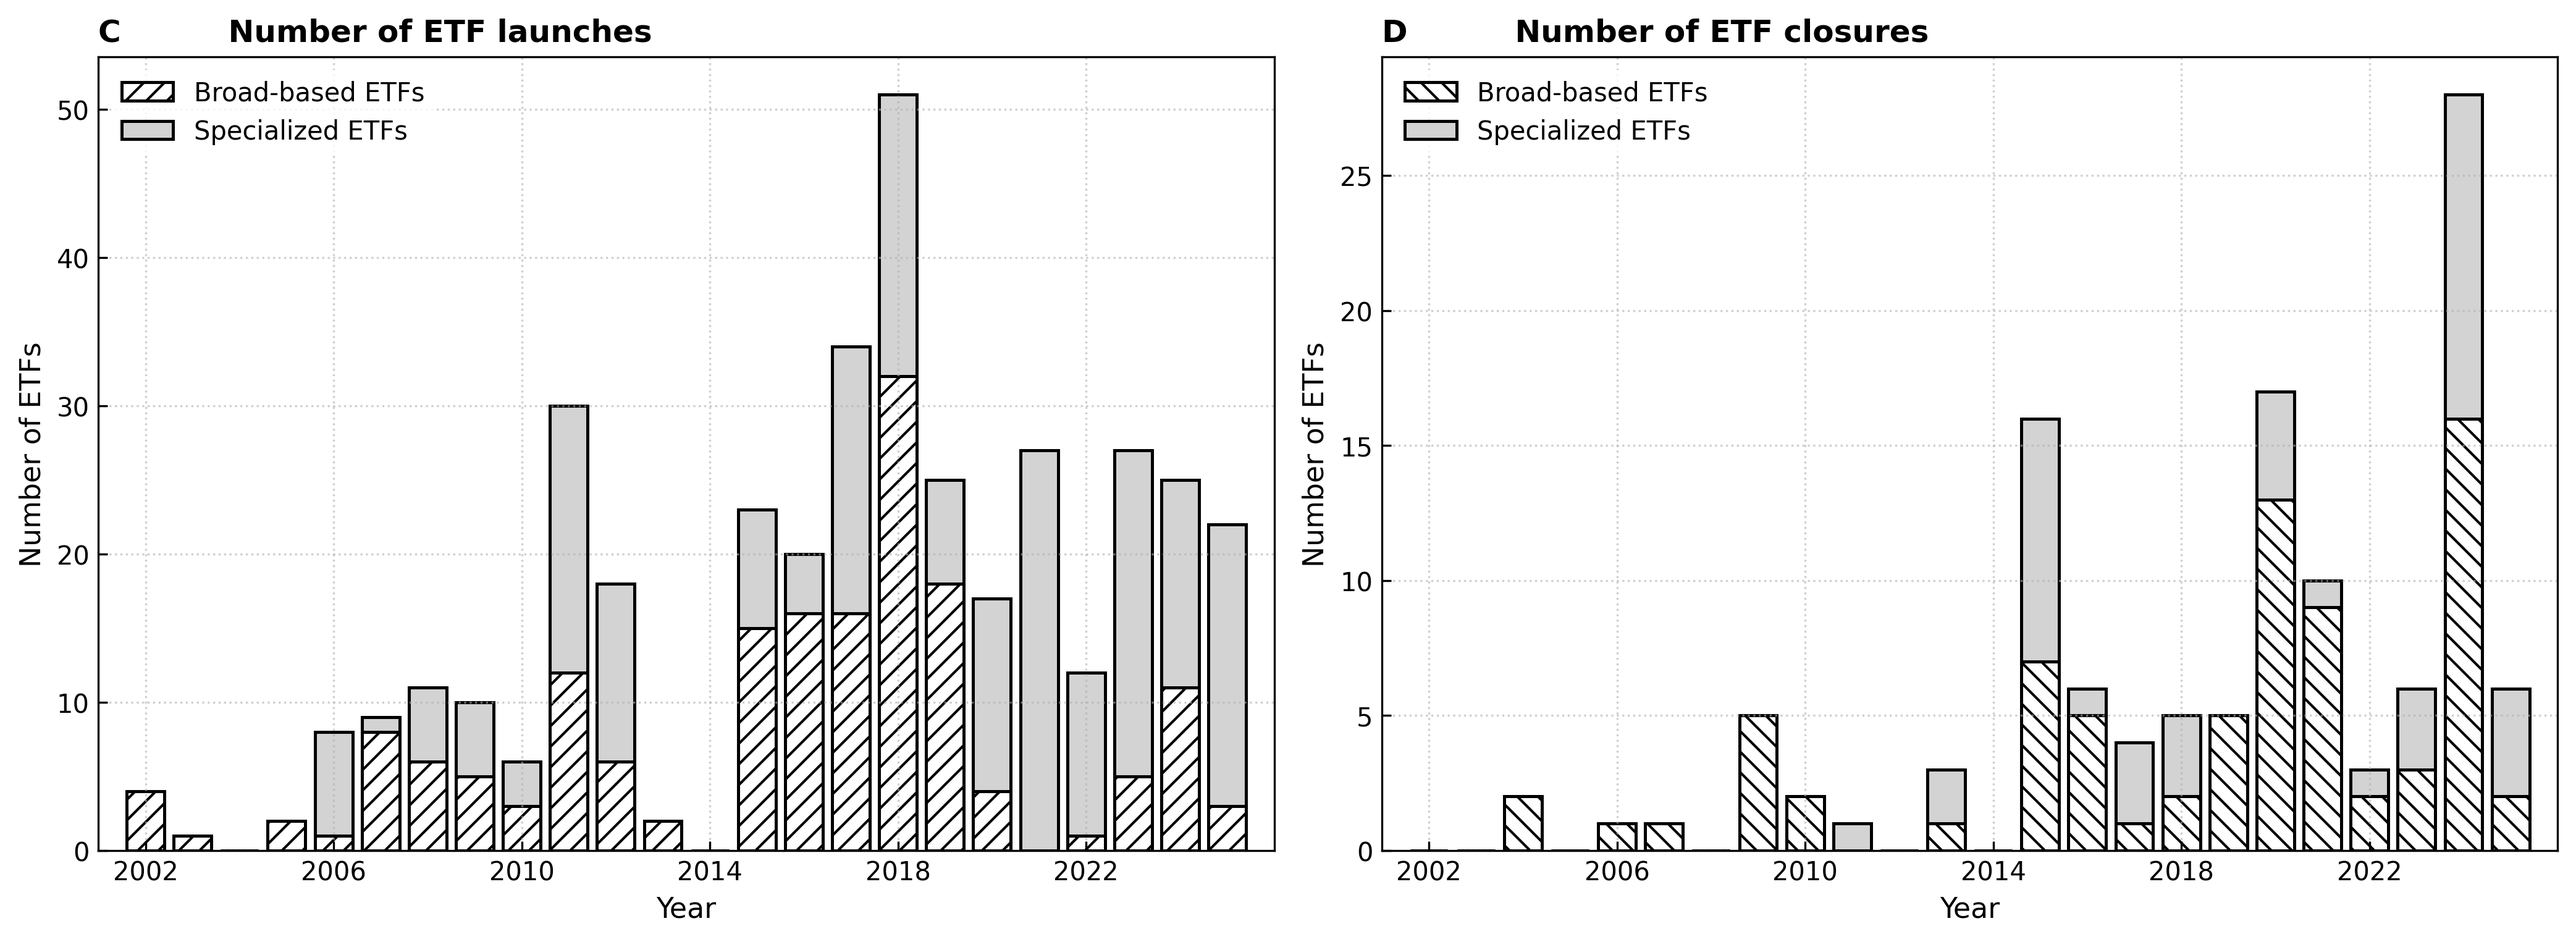
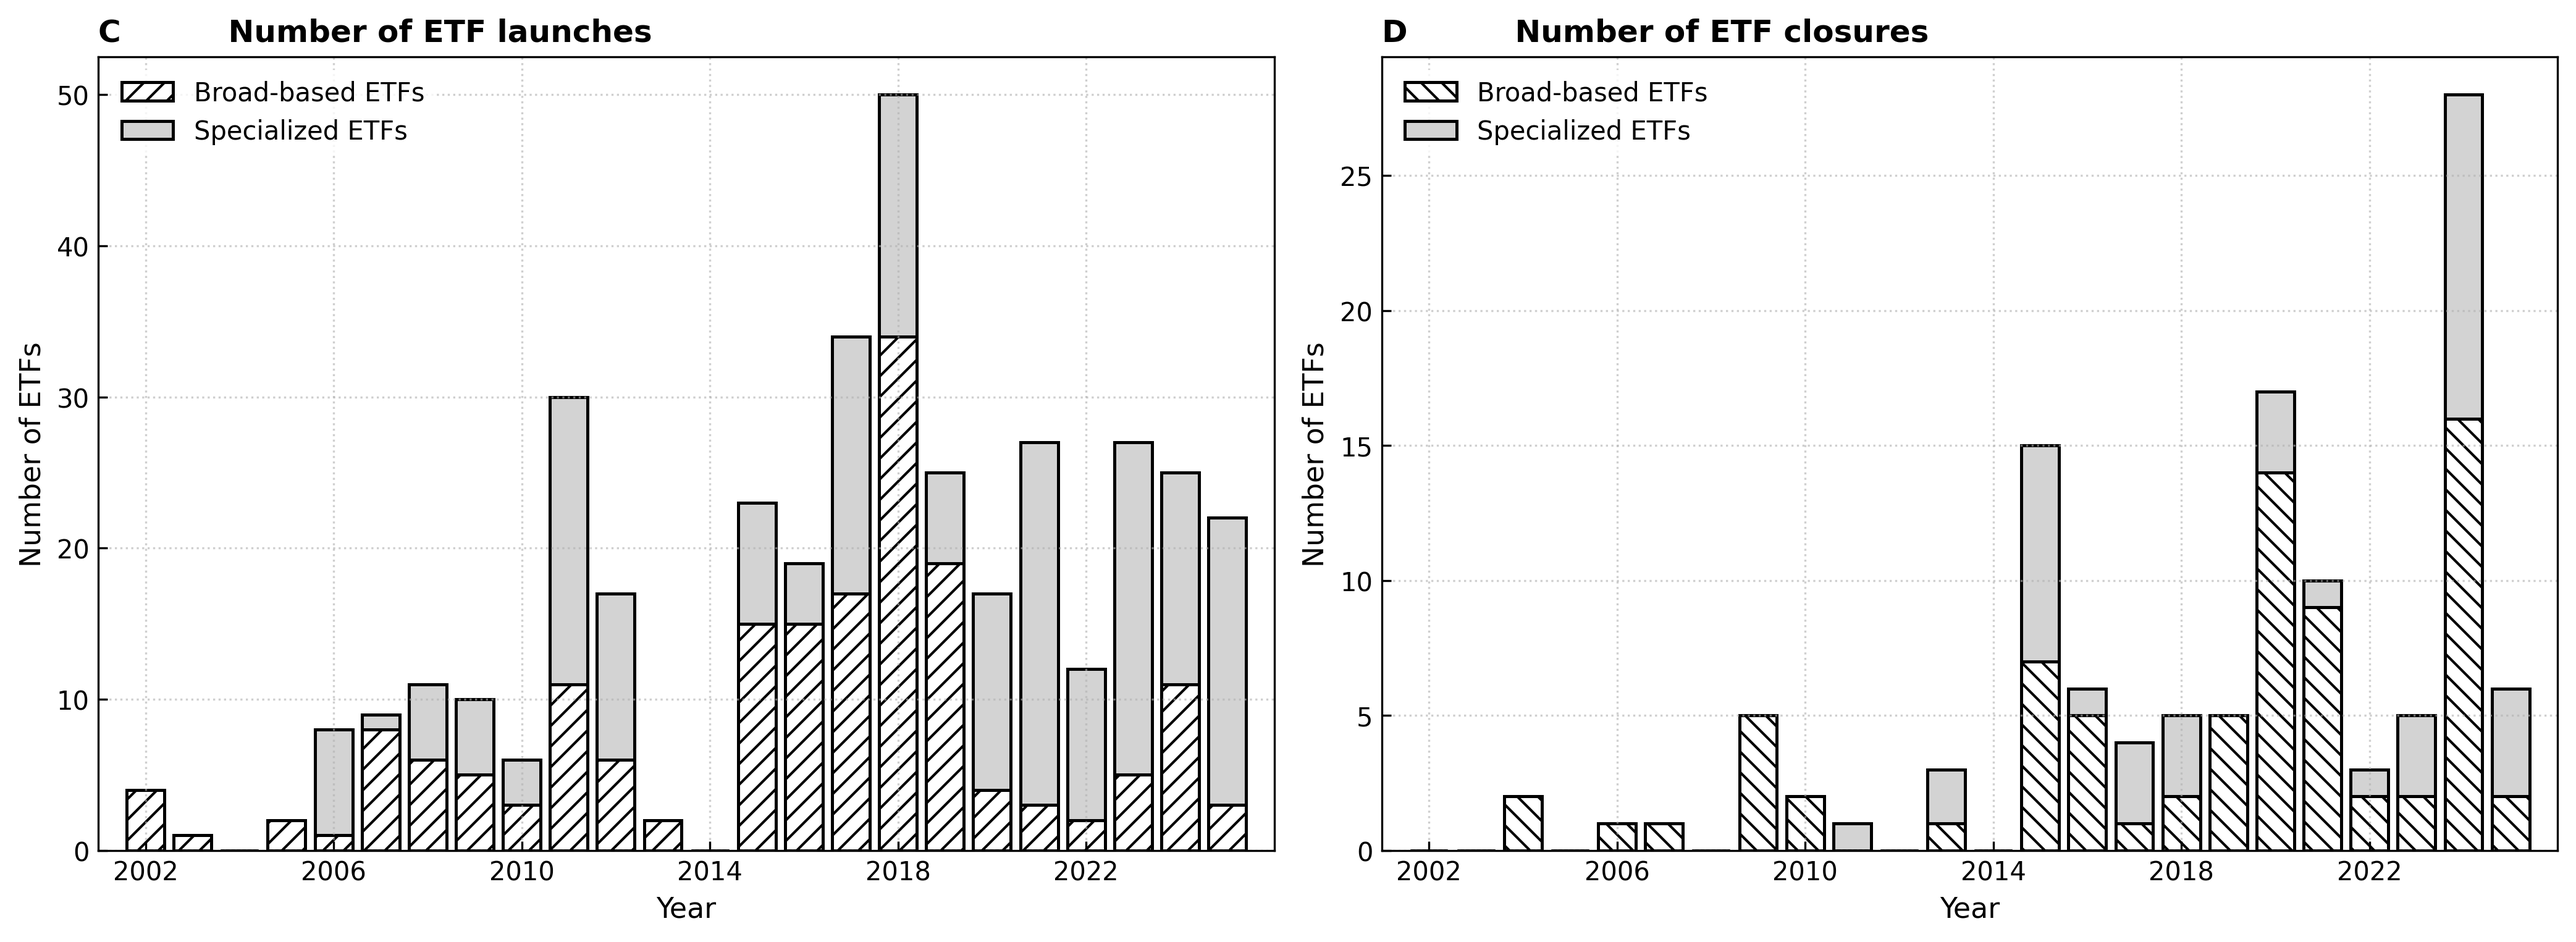
0602

diff --git a/Data_result/Panel_change_Data/change_data_month.py b/Data_result/Panel_change_Data/change_data_month.py
@@ -1,0 +1,70 @@
+import pandas as pd
+import numpy as np
+import os
+
+def main():
+    # 1. 스크립트 파일이 있는 현재 폴더 위치를 자동으로 탐색 (가장 안전한 상대경로 방식)
+    current_dir = os.path.dirname(os.path.abspath(__file__))
+    
+    input_path = os.path.join(current_dir, 'ETF_Data_panel.csv')
+    output_path = os.path.join(current_dir, 'ETF_Data_panel_monthly.csv')
+
+    print(f"입력 파일을 찾는 위치: {input_path}")
+    
+    # 파일 존재 여부 확인
+    if not os.path.exists(input_path):
+        print(f"❌ 에러: {input_path} 파일을 찾을 수 없습니다.")
+        print("ETF_Data_panel.csv 파일과 이 스크립트 파일이 같은 폴더에 있는지 다시 확인해 주세요.")
+        return
+
+    print("데이터를 불러오는 중입니다...")
+    df = pd.read_csv(input_path)
+
+    # 2. 날짜 데이터 타입 변환 및 정렬
+    df['날짜'] = pd.to_datetime(df['날짜'])
+    df = df.sort_values(by=['ETF코드', '날짜'])
+
+    # 3. 결측치(Missing Values) 사전 처리
+    # AUM과 TER은 저량 변수이므로 직전 값으로 채움 (Forward Fill)
+    df['AUM(원)'] = df.groupby('ETF코드')['AUM(원)'].ffill()
+    df['TER 보수'] = df.groupby('ETF코드')['TER 보수'].ffill()
+    
+    # 거래대금, 거래량은 유량 변수이므로 거래가 없었던 날은 0으로 채움
+    df['거래대금(원)'] = df['거래대금(원)'].fillna(0)
+    df['거래량(주)'] = df['거래량(주)'].fillna(0)
+    
+    # 일별 수익률이 누락된 경우 0%로 간주
+    df['수정주가수익률(%)'] = df['수정주가수익률(%)'].fillna(0)
+
+    # 4. 월별 수익률 복리 계산 함수 정의
+    def compound_returns(s):
+        return ((1 + s / 100).prod() - 1) * 100
+
+    print("월별 데이터로 집계 중입니다...")
+    
+    # 5. 월별 데이터로 집계 (Resampling / Groupby)
+    df_monthly = df.groupby(['ETF코드', pd.Grouper(key='날짜', freq='ME')]).agg(
+        ETF명=('ETF명', 'first'),
+        유형=('유형', 'first'),
+        AUM_원=('AUM(원)', 'last'),           # 저량: 월말 데이터
+        TER_보수=('TER 보수', 'last'),        # 저량: 월말 데이터
+        거래대금_원=('거래대금(원)', 'sum'),   # 유량: 월간 합산
+        거래량_주=('거래량(주)', 'sum'),       # 유량: 월간 합산
+        수정주가수익률_퍼센트=('수정주가수익률(%)', compound_returns) # 복리 누적
+    ).reset_index()
+
+    # 6. 원래 컬럼명으로 복구
+    df_monthly.rename(columns={
+        'AUM_원': 'AUM(원)',
+        'TER_보수': 'TER 보수',
+        '거래대금_원': '거래대금(원)',
+        '거래량_주': '거래량(주)',
+        '수정주가수익률_퍼센트': '수정주가수익률(%)'
+    }, inplace=True)
+
+    # 7. 결과 저장
+    df_monthly.to_csv(output_path, index=False, encoding='utf-8-sig')
+    print(f"✅ 변환 완료! 월별 데이터가 다음 경로에 저장되었습니다:\n{output_path}")
+
+if __name__ == "__main__":
+    main()

diff --git a/Classification/classify.py b/Classification/classify.py
@@ -6,14 +6,18 @@ SPECIALIZED_KEYWORDS = [
     '반도체', '2차전지', '바이오', '헬스케어', '정보기술', ' it', 'it ', ' it ', '300it', '200it', 
     '150it', '테마', '섹터', '자동차', '화학', '철강', '에너지', '게임', '미디어', '엔터', 
     '인프라', 'esg', '친환경', '소부장', '건설', '증권', '금융', '은행', '중공업', '그룹', 
-    '조선', '방산', 'ai', '우주', '원자력', '로봇', '전력', '지주회사', '항공', '화장품', 
+    '조선', '방산', 'ai', '우주', '원자력', '로봇', '전력', '항공', '화장품', 
     '배터리', 'k-pop', 'kpop', '수소', '설비', 'bbig', '메타버스', '여행', '태양광', '중국',
-    '테크', '탄소효율', 'e커머스', '뷰티', '우선주', '기자재', '뉴딜', '디지털', '소버린',
+    '테크', '탄소효율', 'e커머스', '뷰티', '기자재', '뉴딜', '디지털', '소버린',
     '기후변화', '전기', '웹툰', '드라마', '동학개미', '의료', '내수주', '소비',
-    '농업', '혁신', '그린', '창업', 'top10', 'top5', '포커스', '상위', '기계', '수출', '플랫폼',
+    '농업', '혁신', '그린', '창업', '포커스', '상위', '기계', '수출', '플랫폼',
     '경기방어', '경기주도', '소프트웨어', '보험', '콘텐츠', '푸드', '5g', '서비스', 'banks',
-    '방송', '통신', 'green', '생활', '대만', '산업재'
+    '방송', '통신', 'green', '생활', '산업재', '운송', '인터넷', '주도업종'
+]
 
+# 예외 처리 목록 (이 단어가 포함되면 Specialized 키워드가 있어도 Broad-based로 판정)
+EXCEPTIONS = [
+    'daishin',
 ]
 
 def run_classification(df, output_dir: Path):
@@ -28,13 +32,21 @@ def run_classification(df, output_dir: Path):
     def check_category(row):
         combined_text = str(row[col_c]).lower()
         
+        # 1. 예외 처리 필터링 (가장 먼저 확인하여 덮어쓰기)
+        if any(exc in combined_text for exc in EXCEPTIONS):
+            return "Broad-based"
+            
+        # 2. Specialized 키워드 필터링
         if any(kw in combined_text for kw in SPECIALIZED_KEYWORDS):
             return "Specialized"
+            
+        # 3. 기본값
         return "Broad-based"
         
     df_working["Category"] = df_working.apply(check_category, axis=1)
     
     # 분류 완료 파일 CSV 저장
+    # output_dir.mkdir(parents=True, exist_ok=True) # 필요시 주석 해제 (폴더가 없을 경우 자동 생성)
     df_working.to_csv(output_dir / "etf_step3_classified.csv", index=False, encoding="utf-8-sig")
     print(f"   [classify.py] 3단계 완료: Broad vs Specialized 분류 -> Data_result/Classification 저장 완료")
     

diff --git a/Classification/filter.py b/Classification/filter.py
@@ -2,7 +2,8 @@ import pandas as pd
 from pathlib import Path
 
 # 제외 키워드 목록
-EXCLUDE_KEYWORDS = ['인버스', '레버리지', '액티브', '고배당', '배당', '커버드콜', '리츠', 'reits', '채권', '혼합', '선물']
+EXCLUDE_KEYWORDS = ['인버스', '레버리지', '액티브', '고배당', '배당', '커버드콜', '리츠', 'reits', '채권', 
+                    '혼합', '선물', '대만', '합성', '장기채']
 
 def run_filter(df, output_dir: Path):
     """
